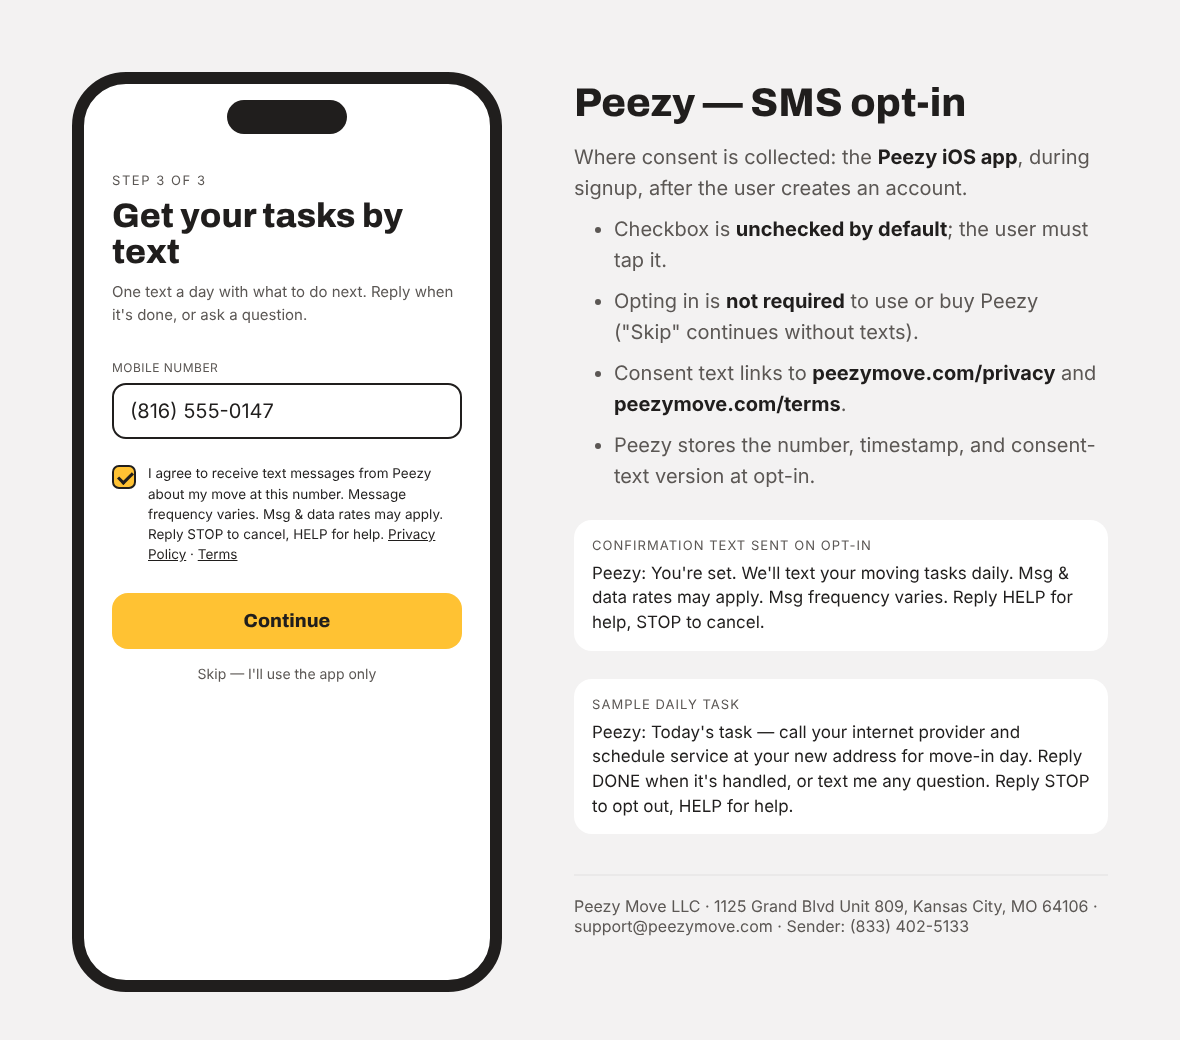
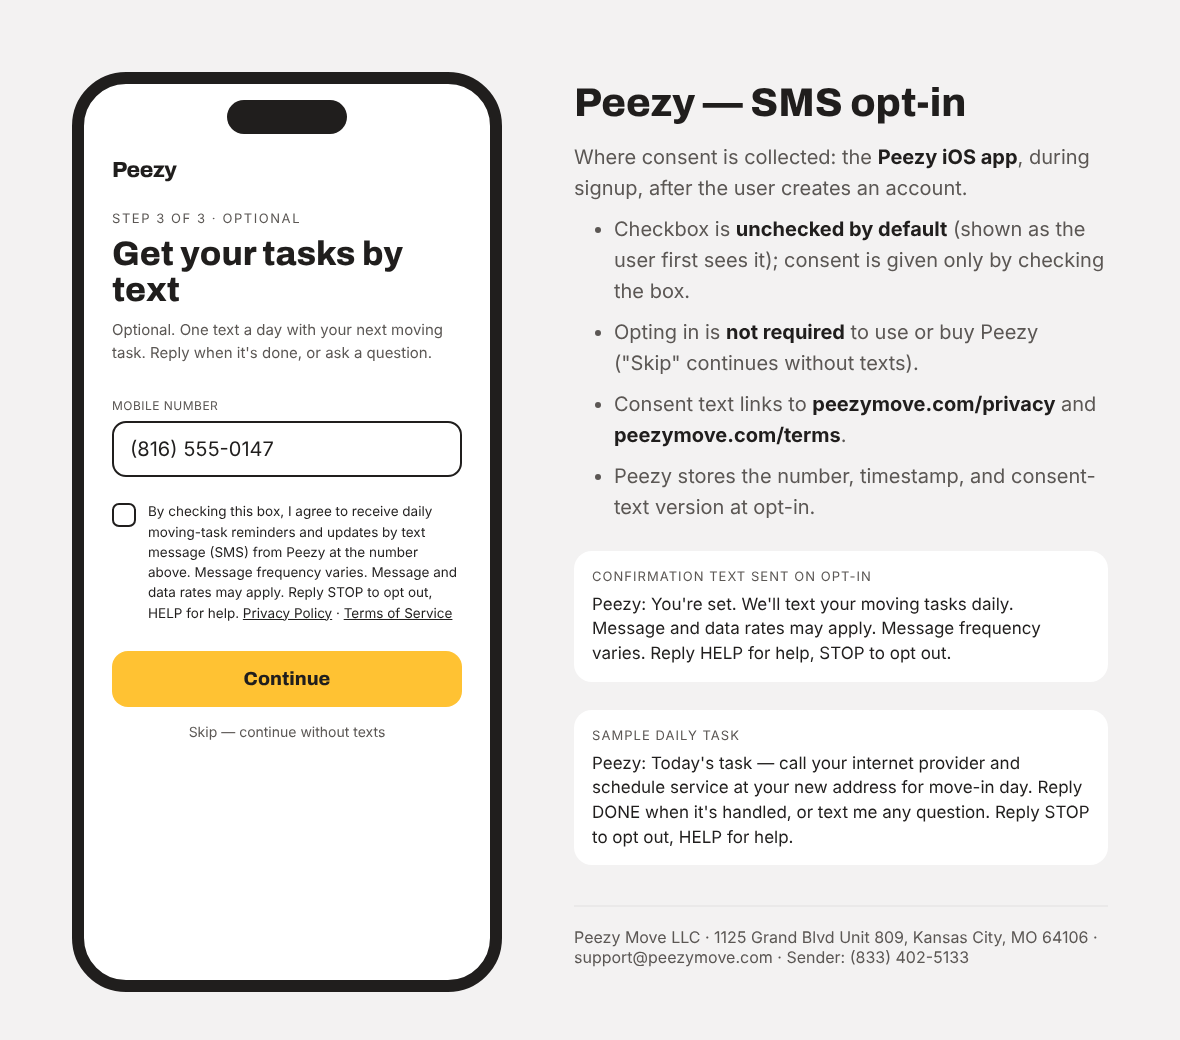
Tighten SMS consent: exact carrier clause in privacy policy, unchecked opt-in mockup
Privacy policy now carries the verbatim 'text messaging originator opt-in data
and consent... will not be shared with any third parties' clause. Opt-in proof
image shows the unchecked default state, ties consent to the checkbox, states
message purpose, uses the exact 'Message and data rates may apply' and 'Reply
STOP to opt out' wording, and labels the Terms of Service link.

Claude-Session: https://claude.ai/code/session_01PpfFXo1pWpvEZ5vnkZax3b

diff --git a/app/privacy/page.tsx b/app/privacy/page.tsx
@@ -58,17 +58,17 @@ export default function Privacy() {
           <p>
             If you opt in, we text you your daily moving tasks, reminders, follow-up questions about a task, and answers
             to the questions you text back. These are part of the service you signed up for; we don&rsquo;t send
-            marketing texts. We use Twilio to send and receive them, and Twilio handles your number and messages only to
-            deliver them on our behalf.
+            marketing texts. Messages are delivered through Twilio, our messaging service provider, which processes them
+            only on our behalf.
           </p>
           <p>
             <strong>
               No mobile information will be shared with third parties or affiliates for marketing or promotional
               purposes.
             </strong>{" "}
-            Your mobile number and your opt-in consent are never sold, rented, or shared with anyone for their own
-            marketing. Sharing with the service providers we use to deliver your texts (like Twilio) is the only
-            exception.
+            All the categories above exclude text messaging originator opt-in data and consent; this information will
+            not be shared with any third parties. Your mobile number and your opt-in consent are never sold, rented, or
+            given to anyone for their own marketing.
           </p>
           <p>
             Reply <strong>STOP</strong> to any message to opt out, or turn texts off in the app&rsquo;s settings.
